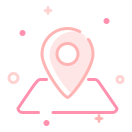
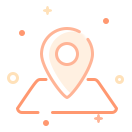
换图

diff --git a/src/views/agreement.vue b/src/views/agreement.vue
@@ -2,11 +2,11 @@
   <div class="pt">
     <v-header>注册协议</v-header>
     <div class="content">
-      <p class="title">《CC卡美珠宝微信商城用户注册和使用协议》</p>
+      <p class="title">《Hi钻珠宝微信商城用户注册和使用协议》</p>
       <div class="section">
         <p class="sub-title">一、服务条款的确认及接受</p>
-        <p class="text">1、CC卡美微信商城软件（以下称“本软件”）各项电子服务的所有权和运作权归属于“CC卡美珠宝”所有，本软件提供的服务将完全按照其发布的服务条款和操作规则严格执行。您确认所有服务条款并完成注册程序时，本协议在您与本软件间成立并发生法律效力，同时您成为本软件正式用户。</p>
-        <p class="text">2、根据国家法律法规变化及本软件运营需要，CC卡美珠宝有权对本协议条款及相关规则不时地进行修改，修改后的内容一旦以任何形式公布在本软件上即生效，并取代此前相关内容，您应不时关注本软件公告、提示信息及协议、规则等相关内容的变动。您知悉并确认，如您不同意更新后的内容，应立即停止使用本软件；如您继续使用本软件，即视为知悉变动内容并同意接受。</p>
+        <p class="text">1、Hi钻微信商城软件（以下称“本软件”）各项电子服务的所有权和运作权归属于“Hi钻珠宝”所有，本软件提供的服务将完全按照其发布的服务条款和操作规则严格执行。您确认所有服务条款并完成注册程序时，本协议在您与本软件间成立并发生法律效力，同时您成为本软件正式用户。</p>
+        <p class="text">2、根据国家法律法规变化及本软件运营需要，Hi钻珠宝有权对本协议条款及相关规则不时地进行修改，修改后的内容一旦以任何形式公布在本软件上即生效，并取代此前相关内容，您应不时关注本软件公告、提示信息及协议、规则等相关内容的变动。您知悉并确认，如您不同意更新后的内容，应立即停止使用本软件；如您继续使用本软件，即视为知悉变动内容并同意接受。</p>
       </div>
       <div class="section">
         <p class="sub-title">二、服务需知</p>
@@ -16,7 +16,7 @@
         <p class="sub-text">(3)选择与所安装终端设备相匹配的软件版本。</p>
         <p class="text">2、基于本软件所提供的网络服务的重要性，您确认并同意：</p>
         <p class="sub-text">(1)提供的注册资料真实、准确、完整、合法有效，注册资料如有变动的，应及时更新；</p>
-        <p class="sub-text">(2)如果您提供的注册资料不合法、不真实、不准确、不详尽的，您需承担因此引起的相应责任及后果，并且CC卡美珠宝保留终止您使用本软件各项服务的权利。</p>
+        <p class="sub-text">(2)如果您提供的注册资料不合法、不真实、不准确、不详尽的，您需承担因此引起的相应责任及后果，并且Hi钻珠宝保留终止您使用本软件各项服务的权利。</p>
       </div>
       <div class="section">
         <p class="sub-title">三、订单</p>
@@ -35,14 +35,14 @@
       </div>
       <div class="section">
         <p class="sub-title">五、用户个人信息保护及授权</p>
-        <p class="text"><b>1、您知悉并同意，为方便您使用本软件相关服务，本软件将存储您在使用时的必要信息，包括但不限于您的真实姓名、性别、生日、配送地址、联系方式等。</b>除法律法规规定的情形外，未经您的许可CC卡美珠宝不会向第三方公开、透露您的个人信息。CC卡美珠宝对相关信息采取专业加密存储与传输方式，利用合理措施保障用户个人信息的安全。</p>
-        <p class="text"><b>2、您知悉并确认，您在注册帐号或使用本软件的过程中，需要提供真实的身份信息，CC卡美珠宝将根据国家法律法规相关要求，进行基于移动电话号码的真实身份信息认证。若您提供的信息不真实、不完整，或在不同场合下存在信息的不一致，则无法使用本软件或在使用过程中受到限制，同时，由此产生的不利后果，由您自行承担。</b></p>
+        <p class="text"><b>1、您知悉并同意，为方便您使用本软件相关服务，本软件将存储您在使用时的必要信息，包括但不限于您的真实姓名、性别、生日、配送地址、联系方式等。</b>除法律法规规定的情形外，未经您的许可Hi钻珠宝不会向第三方公开、透露您的个人信息。Hi钻珠宝对相关信息采取专业加密存储与传输方式，利用合理措施保障用户个人信息的安全。</p>
+        <p class="text"><b>2、您知悉并确认，您在注册帐号或使用本软件的过程中，需要提供真实的身份信息，Hi钻珠宝将根据国家法律法规相关要求，进行基于移动电话号码的真实身份信息认证。若您提供的信息不真实、不完整，或在不同场合下存在信息的不一致，则无法使用本软件或在使用过程中受到限制，同时，由此产生的不利后果，由您自行承担。</b></p>
         <p class="text"><b>3、您在使用本软件某一特定服务时，该服务可能会另有单独的协议、相关业务规则等（以下统称为“单独协议”），您在使用该项服务前请阅读并同意相关的单独协议；您使用前述特定服务，即视为您已阅读并同意接受相关单独协议。</b></p>
         <p class="text">4、您充分理解并同意：</p>
         <p class="sub-text"><b>(1)接收通过邮件、短信、电话等形式，向在本软件注册、购物的用户、收货人发送的订单信息、促销活动等内容；</b></p>
-        <p class="sub-text"><b>(2)为配合行政监管机关、司法机关执行工作，在法律规定范围内CC卡美珠宝有权向上述行政、司法机关提供您在使用本软件时所储存的相关信息，包括但不限于您的注册信息等，或使用相关信息进行证据保全，包括但不限于公证、见证等；</b></p>
-        <p class="sub-text"><b>(3)CC卡美珠宝依法保障您在安装或使用过程中的知情权和选择权，在您使用本软件服务过程中，涉及您设备自带功能的服务会提前征得您同意，您一经确认，CC卡美珠宝有权开启包括但不限于收集地理位置、读取通讯录、使用摄像头、启用录音等提供服务必要的辅助功能。</b></p>
-        <p class="sub-text"><b>(4)CC卡美珠宝有权根据实际情况，在法律规定范围内自行决定单个用户在本软件及服务中数据的最长储存期限以及用户日志的储存期限，并在服务器上为其分配数据最大存储空间等。</b></p>
+        <p class="sub-text"><b>(2)为配合行政监管机关、司法机关执行工作，在法律规定范围内Hi钻珠宝有权向上述行政、司法机关提供您在使用本软件时所储存的相关信息，包括但不限于您的注册信息等，或使用相关信息进行证据保全，包括但不限于公证、见证等；</b></p>
+        <p class="sub-text"><b>(3)Hi钻珠宝依法保障您在安装或使用过程中的知情权和选择权，在您使用本软件服务过程中，涉及您设备自带功能的服务会提前征得您同意，您一经确认，Hi钻珠宝有权开启包括但不限于收集地理位置、读取通讯录、使用摄像头、启用录音等提供服务必要的辅助功能。</b></p>
+        <p class="sub-text"><b>(4)Hi钻珠宝有权根据实际情况，在法律规定范围内自行决定单个用户在本软件及服务中数据的最长储存期限以及用户日志的储存期限，并在服务器上为其分配数据最大存储空间等。</b></p>
       </div>
       <div class="section">
         <p class="sub-title">六、用户行为规范</p>
@@ -61,37 +61,37 @@
       <div class="section">
         <p class="sub-title">七、软件使用规范</p>
         <p class="text">1、关于软件的获取与更新：</p>
-        <p class="sub-text">(1)您可以直接从CC卡美珠宝的网站上获取本软件，也可以从得到CC卡美珠宝授权的第三方获取，如果您从未经CC卡美珠宝授权的第三方获取本软件或与本软件名称相同的安装程序，CC卡美珠宝无法保证该软件能够正常使用，并对因此给您造成的损失不予负责；</p>
-        <p class="sub-text">(2)为了改善用户体验、完善服务内容，CC卡美珠宝将不断努力开发新的服务，并为您不时提供软件更新，本软件新版本发布后，旧版本的软件可能无法使用，CC卡美珠宝不保证旧版本软件继续可用及相应的客户服务，请您随时核对并下载最新版本。</p>
-        <p class="text">2、除非法律允许或CC卡美珠宝书面许可，您使用本软件过程中不得从事下列行为：</p>
+        <p class="sub-text">(1)您可以直接从Hi钻珠宝的网站上获取本软件，也可以从得到Hi钻珠宝授权的第三方获取，如果您从未经Hi钻珠宝授权的第三方获取本软件或与本软件名称相同的安装程序，Hi钻珠宝无法保证该软件能够正常使用，并对因此给您造成的损失不予负责；</p>
+        <p class="sub-text">(2)为了改善用户体验、完善服务内容，Hi钻珠宝将不断努力开发新的服务，并为您不时提供软件更新，本软件新版本发布后，旧版本的软件可能无法使用，Hi钻珠宝不保证旧版本软件继续可用及相应的客户服务，请您随时核对并下载最新版本。</p>
+        <p class="text">2、除非法律允许或Hi钻珠宝书面许可，您使用本软件过程中不得从事下列行为：</p>
         <p class="sub-text">(1)删除本软件及其副本上关于著作权的信息；</p>
         <p class="sub-text">(2)对本软件进行反向工程、反向汇编、反向编译，或者以其他方式尝试发现本软件的源代码；</p>
-        <p class="sub-text">(3)对CC卡美珠宝拥有知识产权的内容进行使用、出租、出借、复制、修改、链接、转载、汇编、发表、出版、建立镜像站点等；</p>
-        <p class="sub-text">(4)对本软件或者本软件运行过程中释放到任何终端内存中的数据、软件运行过程中客户端与服务器端的交互数据，以及本软件运行所必需的系统数据，进行复制、修改、增加、删除、挂接运行或创作任何衍生作品，形式包括但不限于使用插件、外挂或非经CC卡美珠宝授权的第三方工具/服务接入本软件和相关系统；</p>
+        <p class="sub-text">(3)对Hi钻珠宝拥有知识产权的内容进行使用、出租、出借、复制、修改、链接、转载、汇编、发表、出版、建立镜像站点等；</p>
+        <p class="sub-text">(4)对本软件或者本软件运行过程中释放到任何终端内存中的数据、软件运行过程中客户端与服务器端的交互数据，以及本软件运行所必需的系统数据，进行复制、修改、增加、删除、挂接运行或创作任何衍生作品，形式包括但不限于使用插件、外挂或非经Hi钻珠宝授权的第三方工具/服务接入本软件和相关系统；</p>
         <p class="sub-text">(5)通过修改或伪造软件运行中的指令、数据，增加、删减、变动软件的功能或运行效果，或者将用于上述用途的软件、方法进行运营或向公众传播，无论这些行为是否为商业目的；</p>
-        <p class="sub-text">(6)通过非CC卡美珠宝开发、授权的第三方软件、插件、外挂、系统，登录或使用CC卡美珠宝软件及服务，或制作、发布、传播上述工具；</p>
+        <p class="sub-text">(6)通过非Hi钻珠宝开发、授权的第三方软件、插件、外挂、系统，登录或使用Hi钻珠宝软件及服务，或制作、发布、传播上述工具；</p>
         <p class="sub-text">(7)自行或者授权他人、第三方软件对本软件及其组件、模块、数据进行干扰。</p>
       </div>
       <div class="section">
         <p class="sub-title">八、违约责任</p>
-        <p class="text">1、如果CC卡美珠宝发现或收到他人举报投诉您违反本协议约定的，CC卡美珠宝有权不经通知随时对相关内容进行删除、屏蔽，并视行为情节对违规帐号处以包括但不限于警告、限制或禁止使用部分或全部功能、帐号封禁直至注销的处罚，并公告处理结果。</p>
-        <p class="text"><b>2、CC卡美珠宝有权依据合理判断对违反有关法律法规或本协议规定的行为采取适当的法律行动，并依据法律法规保存有关信息向有关部门报告等，您应独自承担由此而产生的一切法律责任。</b></p>
-        <p class="text"><b>3、您理解并同意，因您违反本协议或相关服务条款的规定，导致或产生第三方主张的任何索赔、要求或损失，您应当独立承担责任；CC卡美珠宝因此遭受损失的，您也应当一并赔偿。</b></p>
-        <p class="text">4、除非另有明确的书面说明,CC卡美珠宝不对本软件的运营及其包含在本软件上的信息、内容、材料、产品（包括软件）或服务作任何形式的、明示或默示的声明或担保（根据中华人民共和国法律另有规定的以外）。</p>
+        <p class="text">1、如果Hi钻珠宝发现或收到他人举报投诉您违反本协议约定的，Hi钻珠宝有权不经通知随时对相关内容进行删除、屏蔽，并视行为情节对违规帐号处以包括但不限于警告、限制或禁止使用部分或全部功能、帐号封禁直至注销的处罚，并公告处理结果。</p>
+        <p class="text"><b>2、Hi钻珠宝有权依据合理判断对违反有关法律法规或本协议规定的行为采取适当的法律行动，并依据法律法规保存有关信息向有关部门报告等，您应独自承担由此而产生的一切法律责任。</b></p>
+        <p class="text"><b>3、您理解并同意，因您违反本协议或相关服务条款的规定，导致或产生第三方主张的任何索赔、要求或损失，您应当独立承担责任；Hi钻珠宝因此遭受损失的，您也应当一并赔偿。</b></p>
+        <p class="text">4、除非另有明确的书面说明,Hi钻珠宝不对本软件的运营及其包含在本软件上的信息、内容、材料、产品（包括软件）或服务作任何形式的、明示或默示的声明或担保（根据中华人民共和国法律另有规定的以外）。</p>
       </div>
       <div class="section">
         <p class="sub-title">九、所有权及知识产权</p>
-        <p class="text">1、您一旦接受本协议，即表明您主动将您在任何时间段在本软件发表的任何形式的信息内容（包括但不限于客户评价、客户咨询、各类话题文章等信息内容）的财产性权利等任何可转让的权利，如著作权财产权（包括并不限于：复制权、发行权、出租权、展览权、表演权、放映权、广播权、信息网络传播权、摄制权、改编权、翻译权、汇编权以及应当由著作权人享有的其他可转让权利），<b>全部独家且不可撤销地转让给CC卡美珠宝所有，并且您同意CC卡美珠宝有权就任何主体侵权而单独提起诉讼。</b></p>
-        <p class="text">2、本协议已经构成《中华人民共和国著作权法》第二十五条（条文序号依照2010年修订版《著作权法》确定）及相关法律规定的著作财产权等权利转让书面协议，其效力及于您在CC卡美珠宝软件上发布的任何受著作权法保护的作品内容，无论该等内容形成于本协议订立前还是本协议订立后。</p>
+        <p class="text">1、您一旦接受本协议，即表明您主动将您在任何时间段在本软件发表的任何形式的信息内容（包括但不限于客户评价、客户咨询、各类话题文章等信息内容）的财产性权利等任何可转让的权利，如著作权财产权（包括并不限于：复制权、发行权、出租权、展览权、表演权、放映权、广播权、信息网络传播权、摄制权、改编权、翻译权、汇编权以及应当由著作权人享有的其他可转让权利），<b>全部独家且不可撤销地转让给Hi钻珠宝所有，并且您同意Hi钻珠宝有权就任何主体侵权而单独提起诉讼。</b></p>
+        <p class="text">2、本协议已经构成《中华人民共和国著作权法》第二十五条（条文序号依照2010年修订版《著作权法》确定）及相关法律规定的著作财产权等权利转让书面协议，其效力及于您在Hi钻珠宝软件上发布的任何受著作权法保护的作品内容，无论该等内容形成于本协议订立前还是本协议订立后。</p>
         <p class="text">3、您同意并已充分了解本协议的条款，承诺不将已发表于本软件的信息，以任何形式发布或授权其它主体以任何方式使用（包括但不限于在各类网站、媒体上使用）。</p>
-        <p class="text"><b>4、除法律另有强制性规定外，未经CC卡美珠宝明确的特别书面许可,任何单位或个人不得以任何方式非法地全部或部分复制、转载、引用、链接、抓取或以其他方式使用本软件的信息内容，否则，CC卡美珠宝有权追究其法律责任。</b></p>
-        <p class="text">5、本软件所刊登的资料信息（诸如文字、图表、标识、按钮图标、图像、声音文件片段、数字下载、数据编辑和软件），均是CC卡美珠宝或其内容提供者的财产，受中国和国际版权法的保护。本软件上所有内容的汇编是CC卡美珠宝的排他财产，受中国和国际版权法的保护。本软件上所有软件都是CC卡美珠宝或其关联公司或其软件供应商的财产，受中国和国际版权法的保护。</p>
+        <p class="text"><b>4、除法律另有强制性规定外，未经Hi钻珠宝明确的特别书面许可,任何单位或个人不得以任何方式非法地全部或部分复制、转载、引用、链接、抓取或以其他方式使用本软件的信息内容，否则，Hi钻珠宝有权追究其法律责任。</b></p>
+        <p class="text">5、本软件所刊登的资料信息（诸如文字、图表、标识、按钮图标、图像、声音文件片段、数字下载、数据编辑和软件），均是Hi钻珠宝或其内容提供者的财产，受中国和国际版权法的保护。本软件上所有内容的汇编是Hi钻珠宝的排他财产，受中国和国际版权法的保护。本软件上所有软件都是Hi钻珠宝或其关联公司或其软件供应商的财产，受中国和国际版权法的保护。</p>
       </div>
       <div class="section">
         <p class="sub-title">十、法律管辖适用及其他</p>
         <p class="text">1、本协议的订立、执行和解释及争议的解决均应适用中国法律。如双方就本协议内容或其执行发生任何争议，双方应尽力友好协商解决；协商不成时，任何一方均可向协议签订地人民法院提起诉讼。本协议签订地为中华人民共和国山西省太原市小店区。</p>
         <p class="text">2、如果本协议中任何一条被视为废止、无效或因任何理由不可执行，该条应视为可分的且并不影响任何其余条款的有效性和可执行性。</p>
-        <p class="text">3、本协议未明示授权的其他权利仍由CC卡美珠宝保留，您在行使这些权利时须另外取得CC卡美珠宝的书面许可。CC卡美珠宝如果未行使前述任何权利，并不构成对该权利的放弃。</p>
+        <p class="text">3、本协议未明示授权的其他权利仍由Hi钻珠宝保留，您在行使这些权利时须另外取得Hi钻珠宝的书面许可。Hi钻珠宝如果未行使前述任何权利，并不构成对该权利的放弃。</p>
         <p class="text">4、本协议内容中以加粗、下划线等方式显著标识的条款，请您着重阅读。您点击“同意”按钮即视为您完全接受本协议，在点击之前请您再次确认已知悉并完全理解本协议的全部内容。</p>
       </div>
     </div>
@@ -121,8 +121,8 @@
   .title {
     text-align: center;
     font-size: 30px;
-    color:#666;
-    padding: 60px 0
+    color: #666;
+    padding: 60px 0;
   }
 
   .section {

diff --git a/static/config.js b/static/config.js
@@ -1,12 +1,12 @@
 (function(win) {
   win.htp = {
-    appid: 'wx21f5e5c589ad949c',
-    apihost: 'http://shop.cc-jewel.com/', //接口地址2
+    appid: 'wxccaad3ca82d9ff75',
+    apihost: 'http://hi.cc-jewel.com/', //接口地址2
     designWidth: 750,
     mock: false,
-    wxproxy: 'http://shop.cc-jewel.com/wx.proxy.html',
+    wxproxy: 'http://hi.cc-jewel.com/wx.proxy.html',
     iswxproxy: true,
     wxconfig: ['hideOptionMenu', 'showOptionMenu', 'checkJsApi', 'onMenuShareTimeline', 'onMenuShareAppMessage', 'openLocation', 'getLocation', 'chooseWXPay', 'addCard', 'chooseCard', 'openCard', 'scanQRCode'],
-    appName: 'CC卡美珠宝'
+    appName: 'Hi钻珠宝'
   };
 })(window);

diff --git a/index.html b/index.html
@@ -9,7 +9,7 @@
     <meta name="apple-mobile-web-app-capable" content="no" />
     <meta name="apple-mobile-web-app-status-bar-style" content="black" />
     <meta http-equiv="Cache-Control" content="must-revalidate,no-cache" />
-    <title>CC卡美珠宝</title>
+    <title>Hi钻珠宝</title>
     <link rel="stylesheet" type="text/css" href="static/style.css" />
     <link rel="stylesheet" type="text/css" href="static/font-awesome.min.css" />
     <script src="static/jweixin-1.0.0.js" type="text/javascript" charset="utf-8"></script>

diff --git a/config/index.js b/config/index.js
@@ -11,7 +11,7 @@ module.exports = {
     assetsPublicPath: '/',
     proxyTable: {
       '/proxy': {
-        target: 'http://shop.cc-jewel.com',
+        target: 'http://hi.cc-jewel.com',
         changeOrigin: true,
         pathRewrite: {
           '^/proxy': ''

diff --git a/src/style/vars.less b/src/style/vars.less
@@ -1,5 +1,5 @@
-@color1: #acd598;
-@color2: #faa0a0;
-@color3: #fff0f0;
+@color1: #c3d79b;
+@color2: #f79e55;
+@color3: #fffaf0;
 @color4: #cdb498;
 @color5: #ffb4b4;
